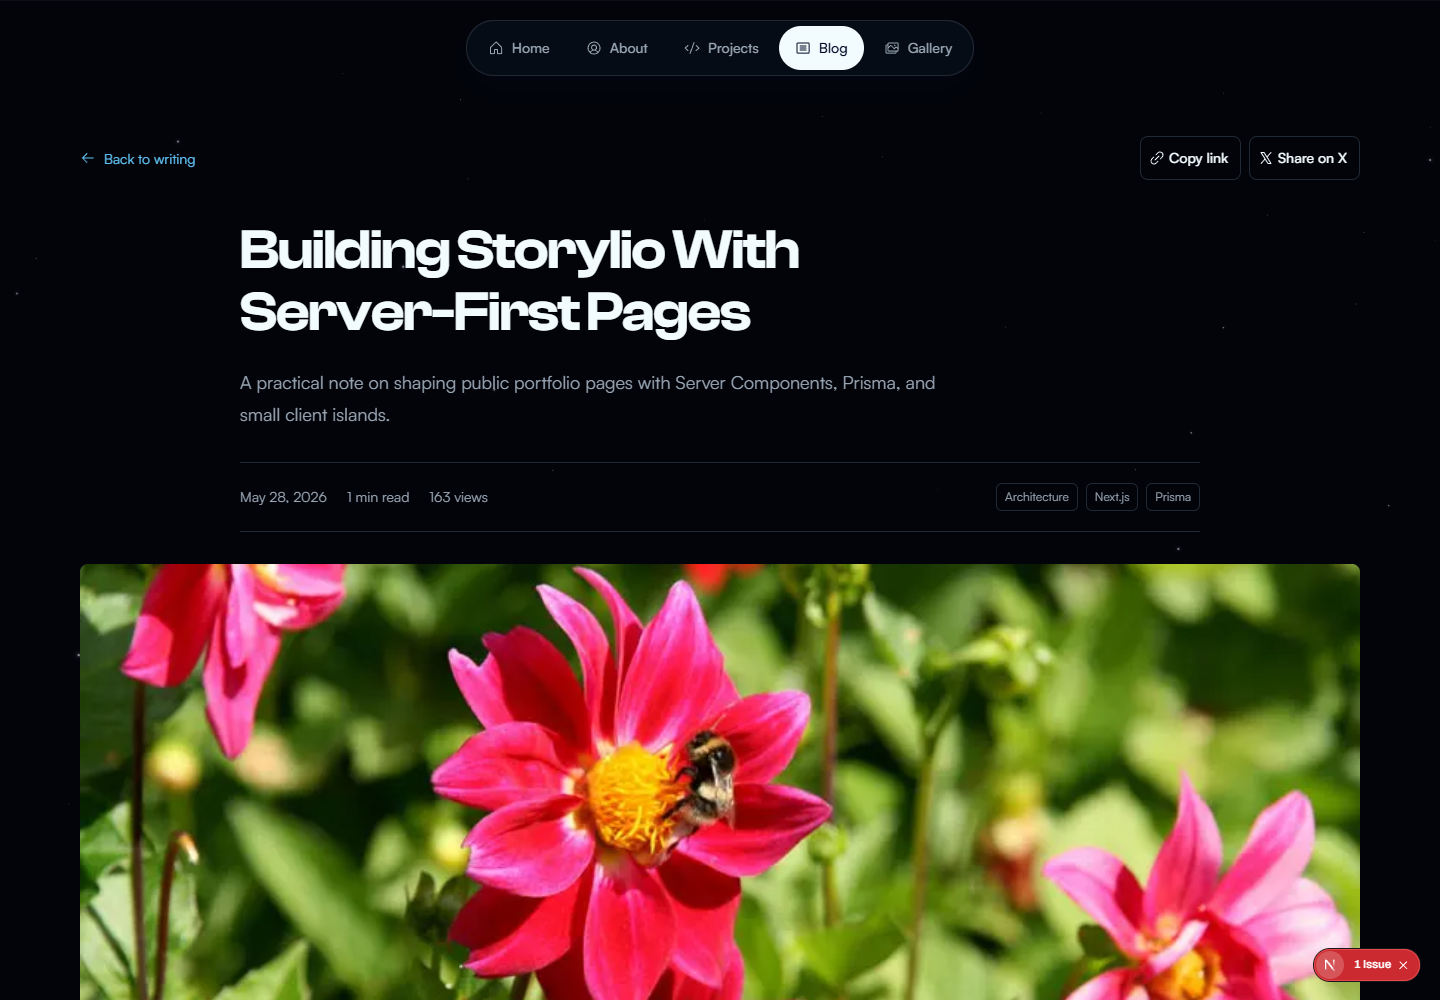
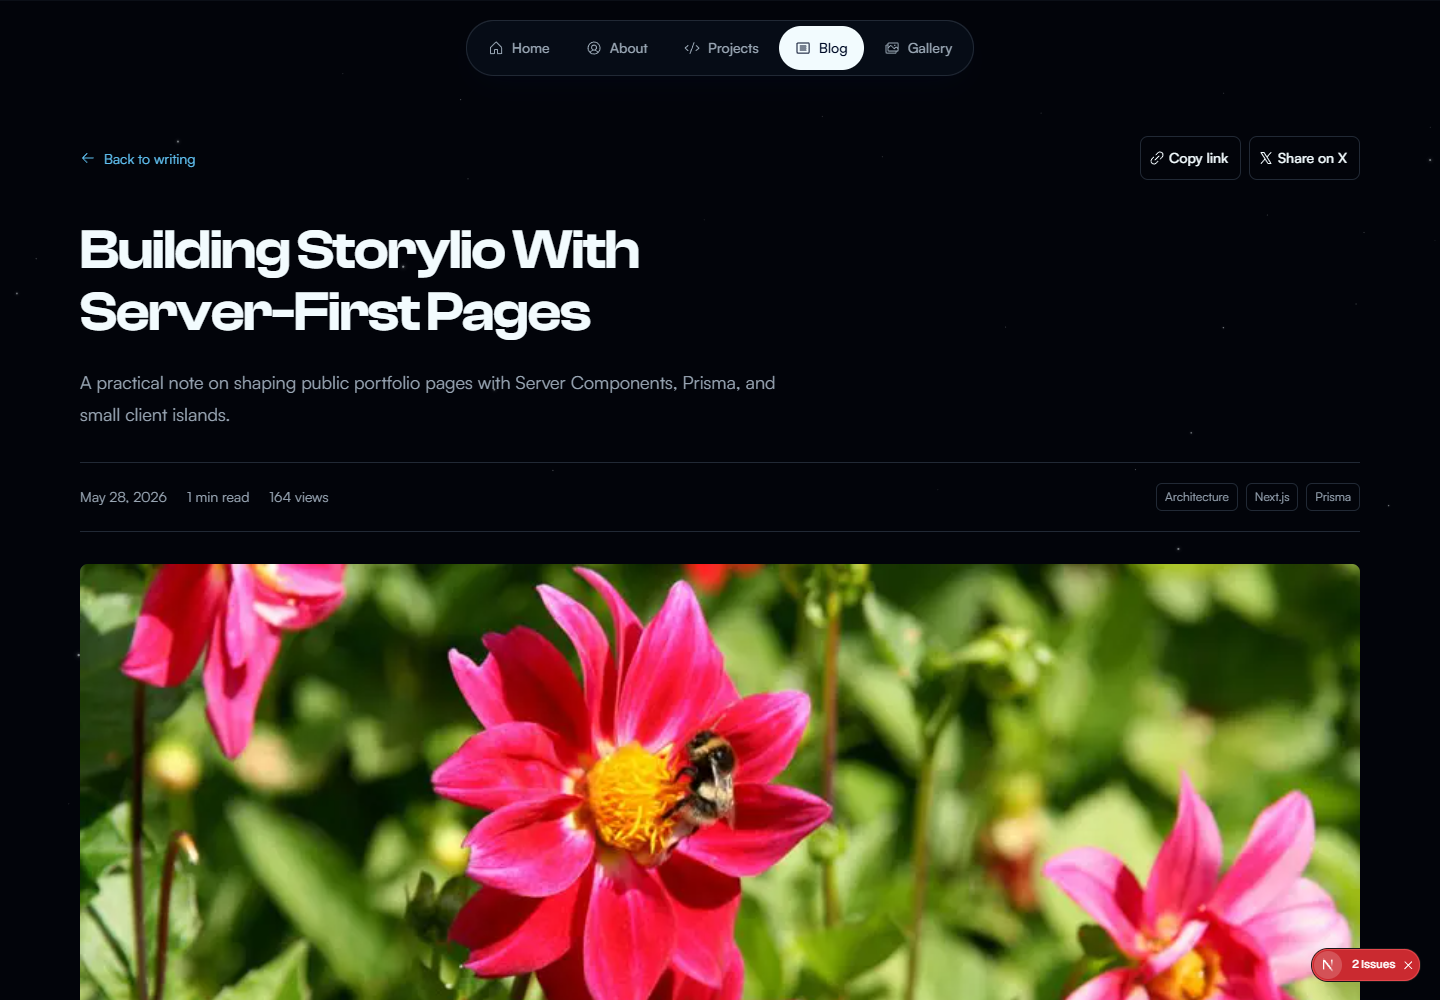
fix(blog): align article opening with full-width cover
- Align the header and metadata with the cover container.
- Preserve shared typography, reading width, and mobile cover ordering.
- Add responsive alignment checks and update screenshots.

diff --git a/tests/browser/article-reading.js b/tests/browser/article-reading.js
@@ -8,10 +8,11 @@ async sessionPage=>{
       await page.setViewportSize({width,height:1000});await page.goto(origin+'/blog/building-storylio-with-server-first-pages');
       await page.getByRole('region',{name:'Article content',exact:true}).waitFor();await page.evaluate(()=>document.fonts.ready);
       const data=await page.evaluate(()=>{
-        const body=document.querySelector('.storylio-article-content'),p=body.querySelector('p'),header=document.querySelector('article header'),meta=header.parentElement.querySelector('time').closest('[class*="meta"]'),cover=header.parentElement.querySelector('img');
-        const box=el=>el?.getBoundingClientRect();return {width:innerWidth,overflow:document.documentElement.scrollWidth>innerWidth+1,bodyFont:getComputedStyle(p).fontSize,textWidth:box(p).width,coverTop:box(cover)?.top,coverBottom:box(cover)?.bottom,metaTop:box(meta)?.top,copy:box(body.querySelector('[data-heading-link]'))?.height};
+        const body=document.querySelector('.storylio-article-content'),p=body.querySelector('p'),header=document.querySelector('article header'),meta=[...header.parentElement.children].find(el=>el.querySelector('time')),cover=header.parentElement.querySelector('img');
+        const box=el=>el?.getBoundingClientRect();return {width:innerWidth,overflow:document.documentElement.scrollWidth>innerWidth+1,bodyFont:getComputedStyle(p).fontSize,textWidth:box(p).width,headerWidth:box(header).width,coverWidth:box(cover)?.width,metaWidth:box(meta)?.width,headerOffset:box(header).left-box(cover)?.left,metaOffset:box(meta)?.left-box(cover)?.left,coverTop:box(cover)?.top,coverBottom:box(cover)?.bottom,metaTop:box(meta)?.top,copy:box(body.querySelector('[data-heading-link]'))?.height};
       });
       assert(!data.overflow&&data.textWidth<=641,'Article reading measure: '+JSON.stringify(data));
+      assert(Math.abs(data.headerWidth-data.coverWidth)<1&&Math.abs(data.metaWidth-data.coverWidth)<1&&Math.abs(data.headerOffset)<1&&Math.abs(data.metaOffset)<1,'Article opening does not align with the full-width cover: '+JSON.stringify(data));
       assert(data.bodyFont===(width<768?'16px':'18px')&&data.copy>=43.99,'Type or copy target changed');
       if(width<768)assert(data.coverBottom<=data.metaTop,'Mobile metadata precedes cover');
       const toggle=page.getByRole('button',{name:'On this page',exact:true});

diff --git a/src/components/public/sections/blog/article.module.css b/src/components/public/sections/blog/article.module.css
@@ -5,12 +5,8 @@
 .header {
   order: 0;
   width: 100%;
-  max-width: 960px;
-  margin-inline: auto;
+  margin: 0;
   padding-block: 40px 32px;
-}
-.header h1 {
-  max-width: 24ch;
 }
 .header p {
   margin-top: 24px;
@@ -23,8 +19,7 @@
   justify-content: space-between;
   gap: 16px;
   width: 100%;
-  max-width: 960px;
-  margin: 0 auto 32px;
+  margin: 0 0 32px;
   padding-block: 20px;
   border-block: 1px solid var(--border);
 }

diff --git a/task/writing-notes/article-intro.md b/task/writing-notes/article-intro.md
@@ -1,0 +1,19 @@
+# Article opening: full container width
+
+The earlier 720px introduction experiment in f770bf5 misinterpreted the owner's
+feedback and is superseded. The article header and metadata now span the same
+container as the wide cover, following the Project detail opening alignment.
+Shared title and excerpt measures remain intact; the article prose keeps its
+separate reading width. Mobile retains cover-before-metadata ordering.
+
+Browser verification passed at 1440, 1024, 768, 390, and 320px. Header, metadata,
+and cover widths match at 1280, 976, 720, 358, and 288px respectively, with zero
+horizontal offset and no page overflow. Desktop prose remains 640px wide.
+TOC alignment, anchor focus/offset, 44px copy controls, and missing article HTTP
+404 passed. Desktop/mobile screenshots were updated and visually inspected.
+Targeted Biome lint passed. The full suite/build reported previously were not
+repeated for this CSS correction; the commit hook checks TypeScript.
+
+Self-evaluation: accuracy 5 (browser measurements), completeness 5 (corrected
+alignment and regression checks), clarity 5 (scope stated), actionability 5
+(local implementation and screenshots), conciseness 5 (focused correction).
